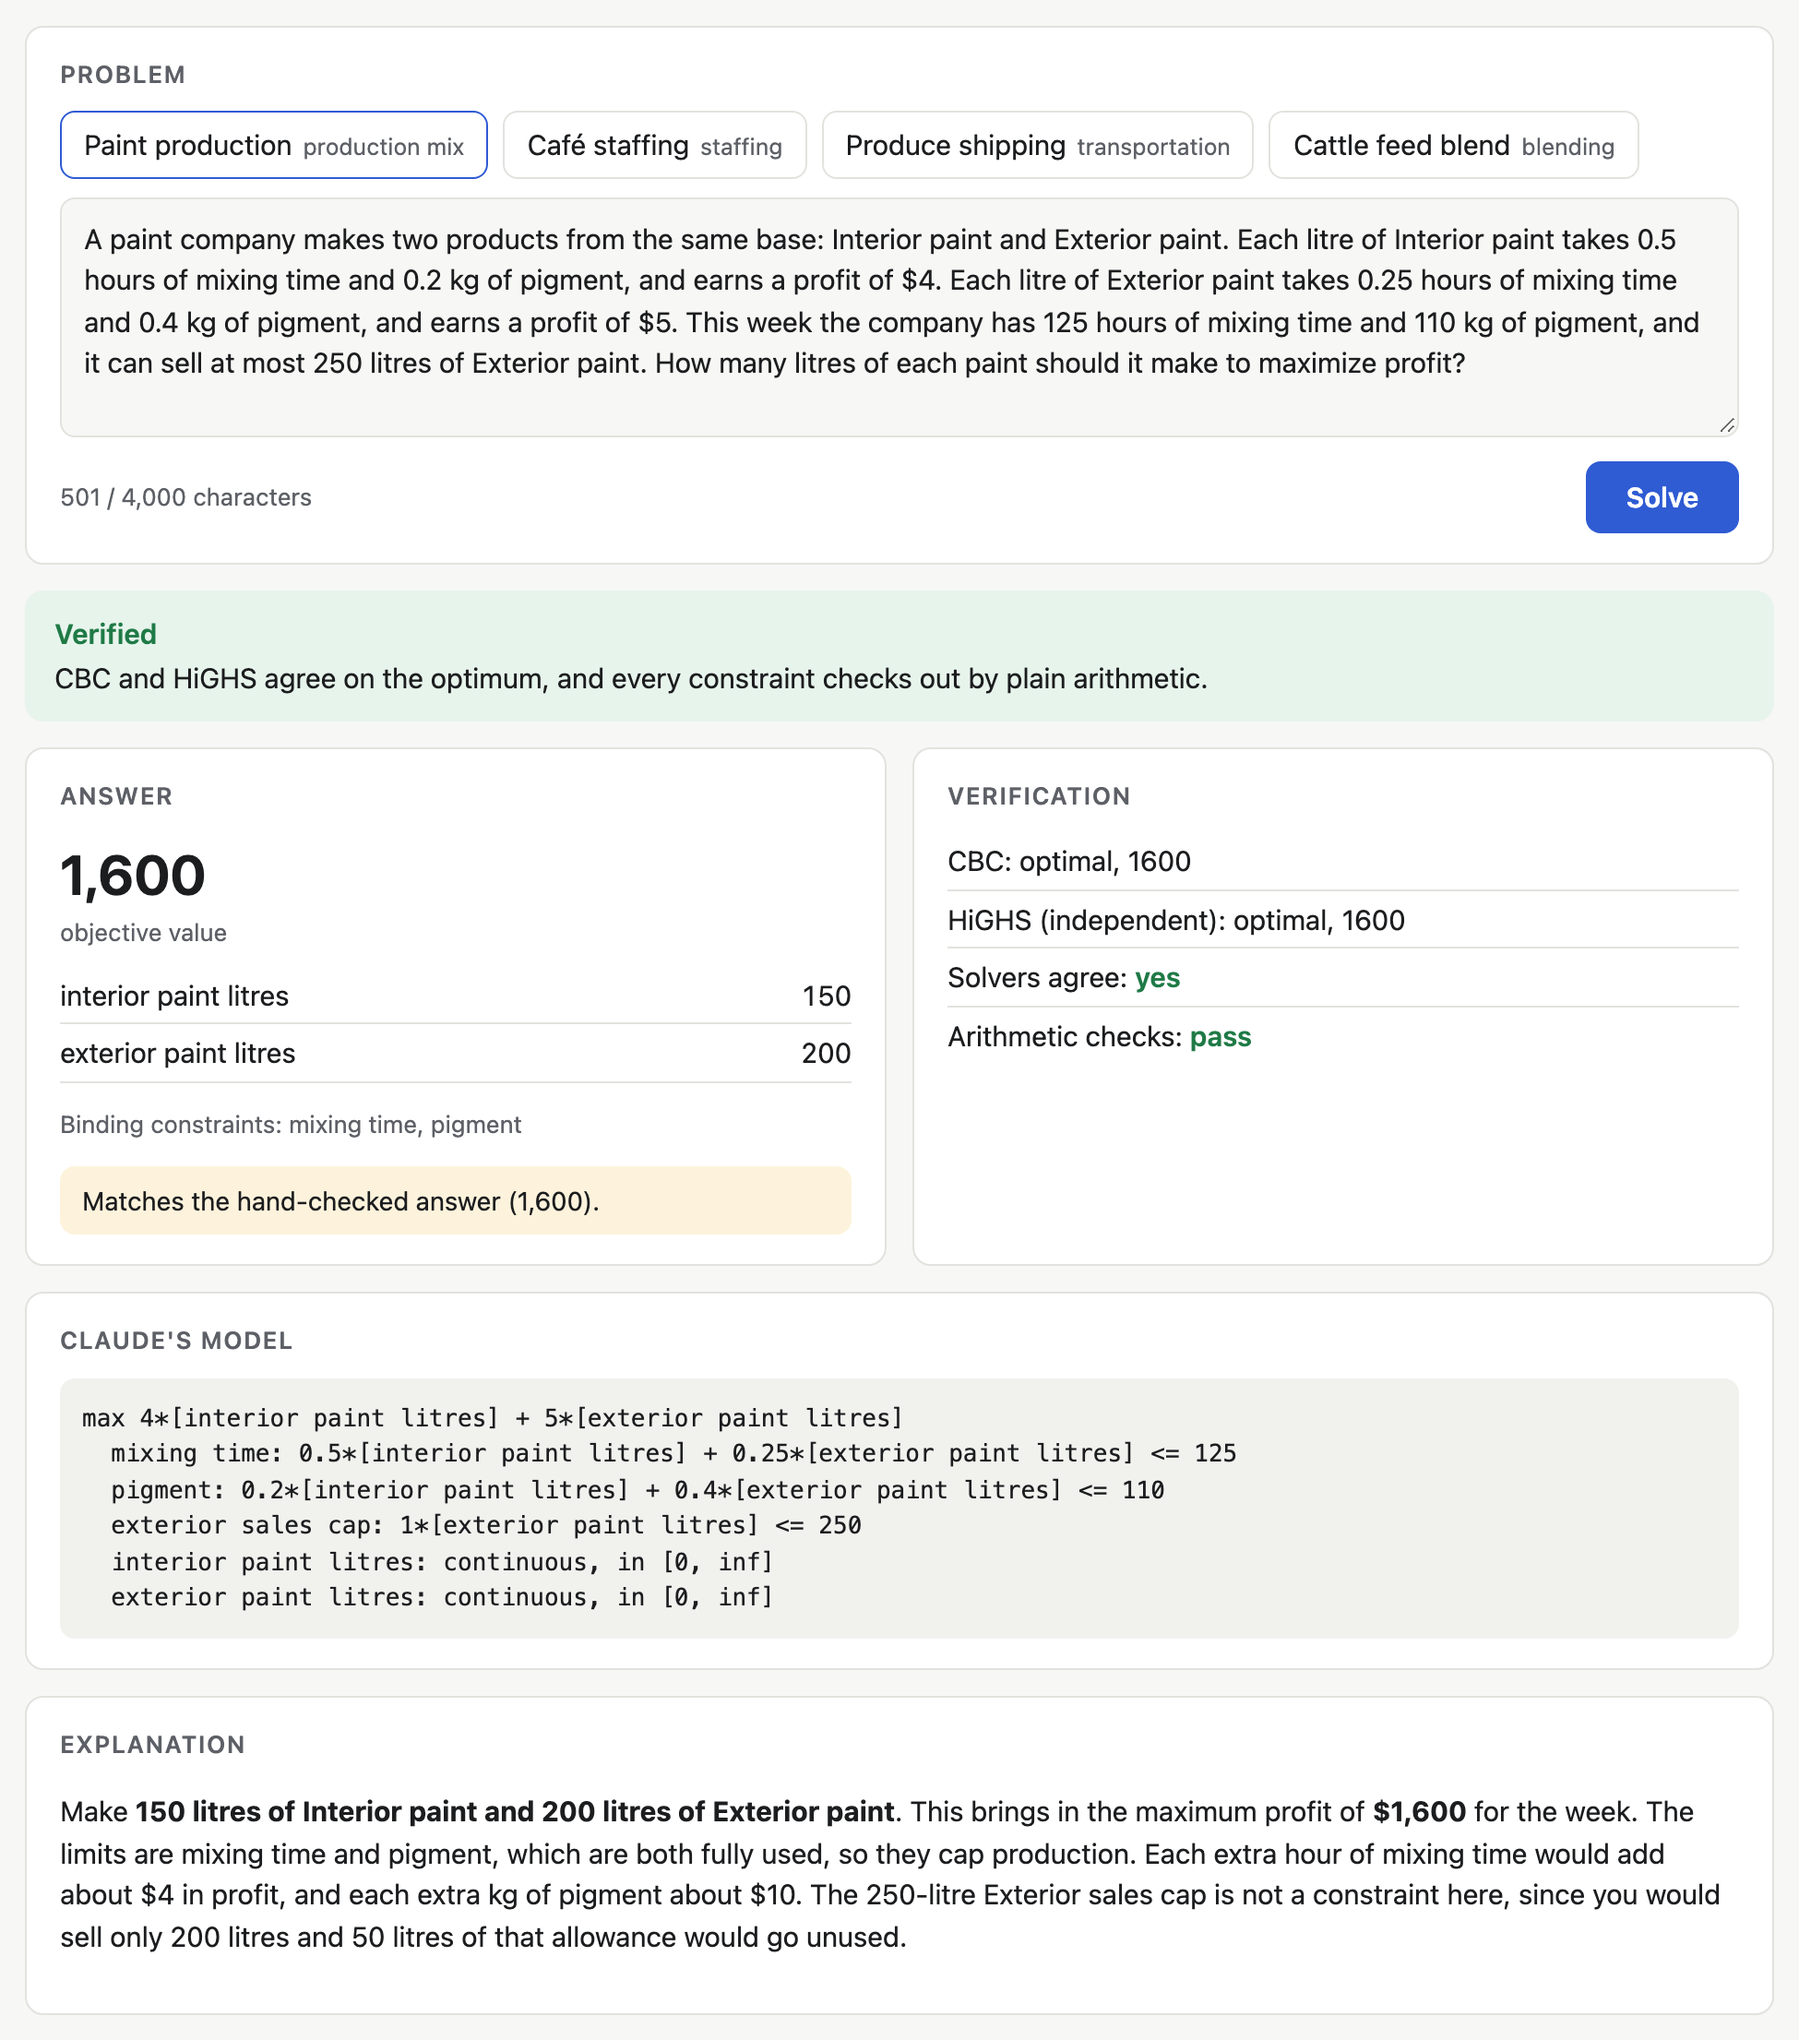
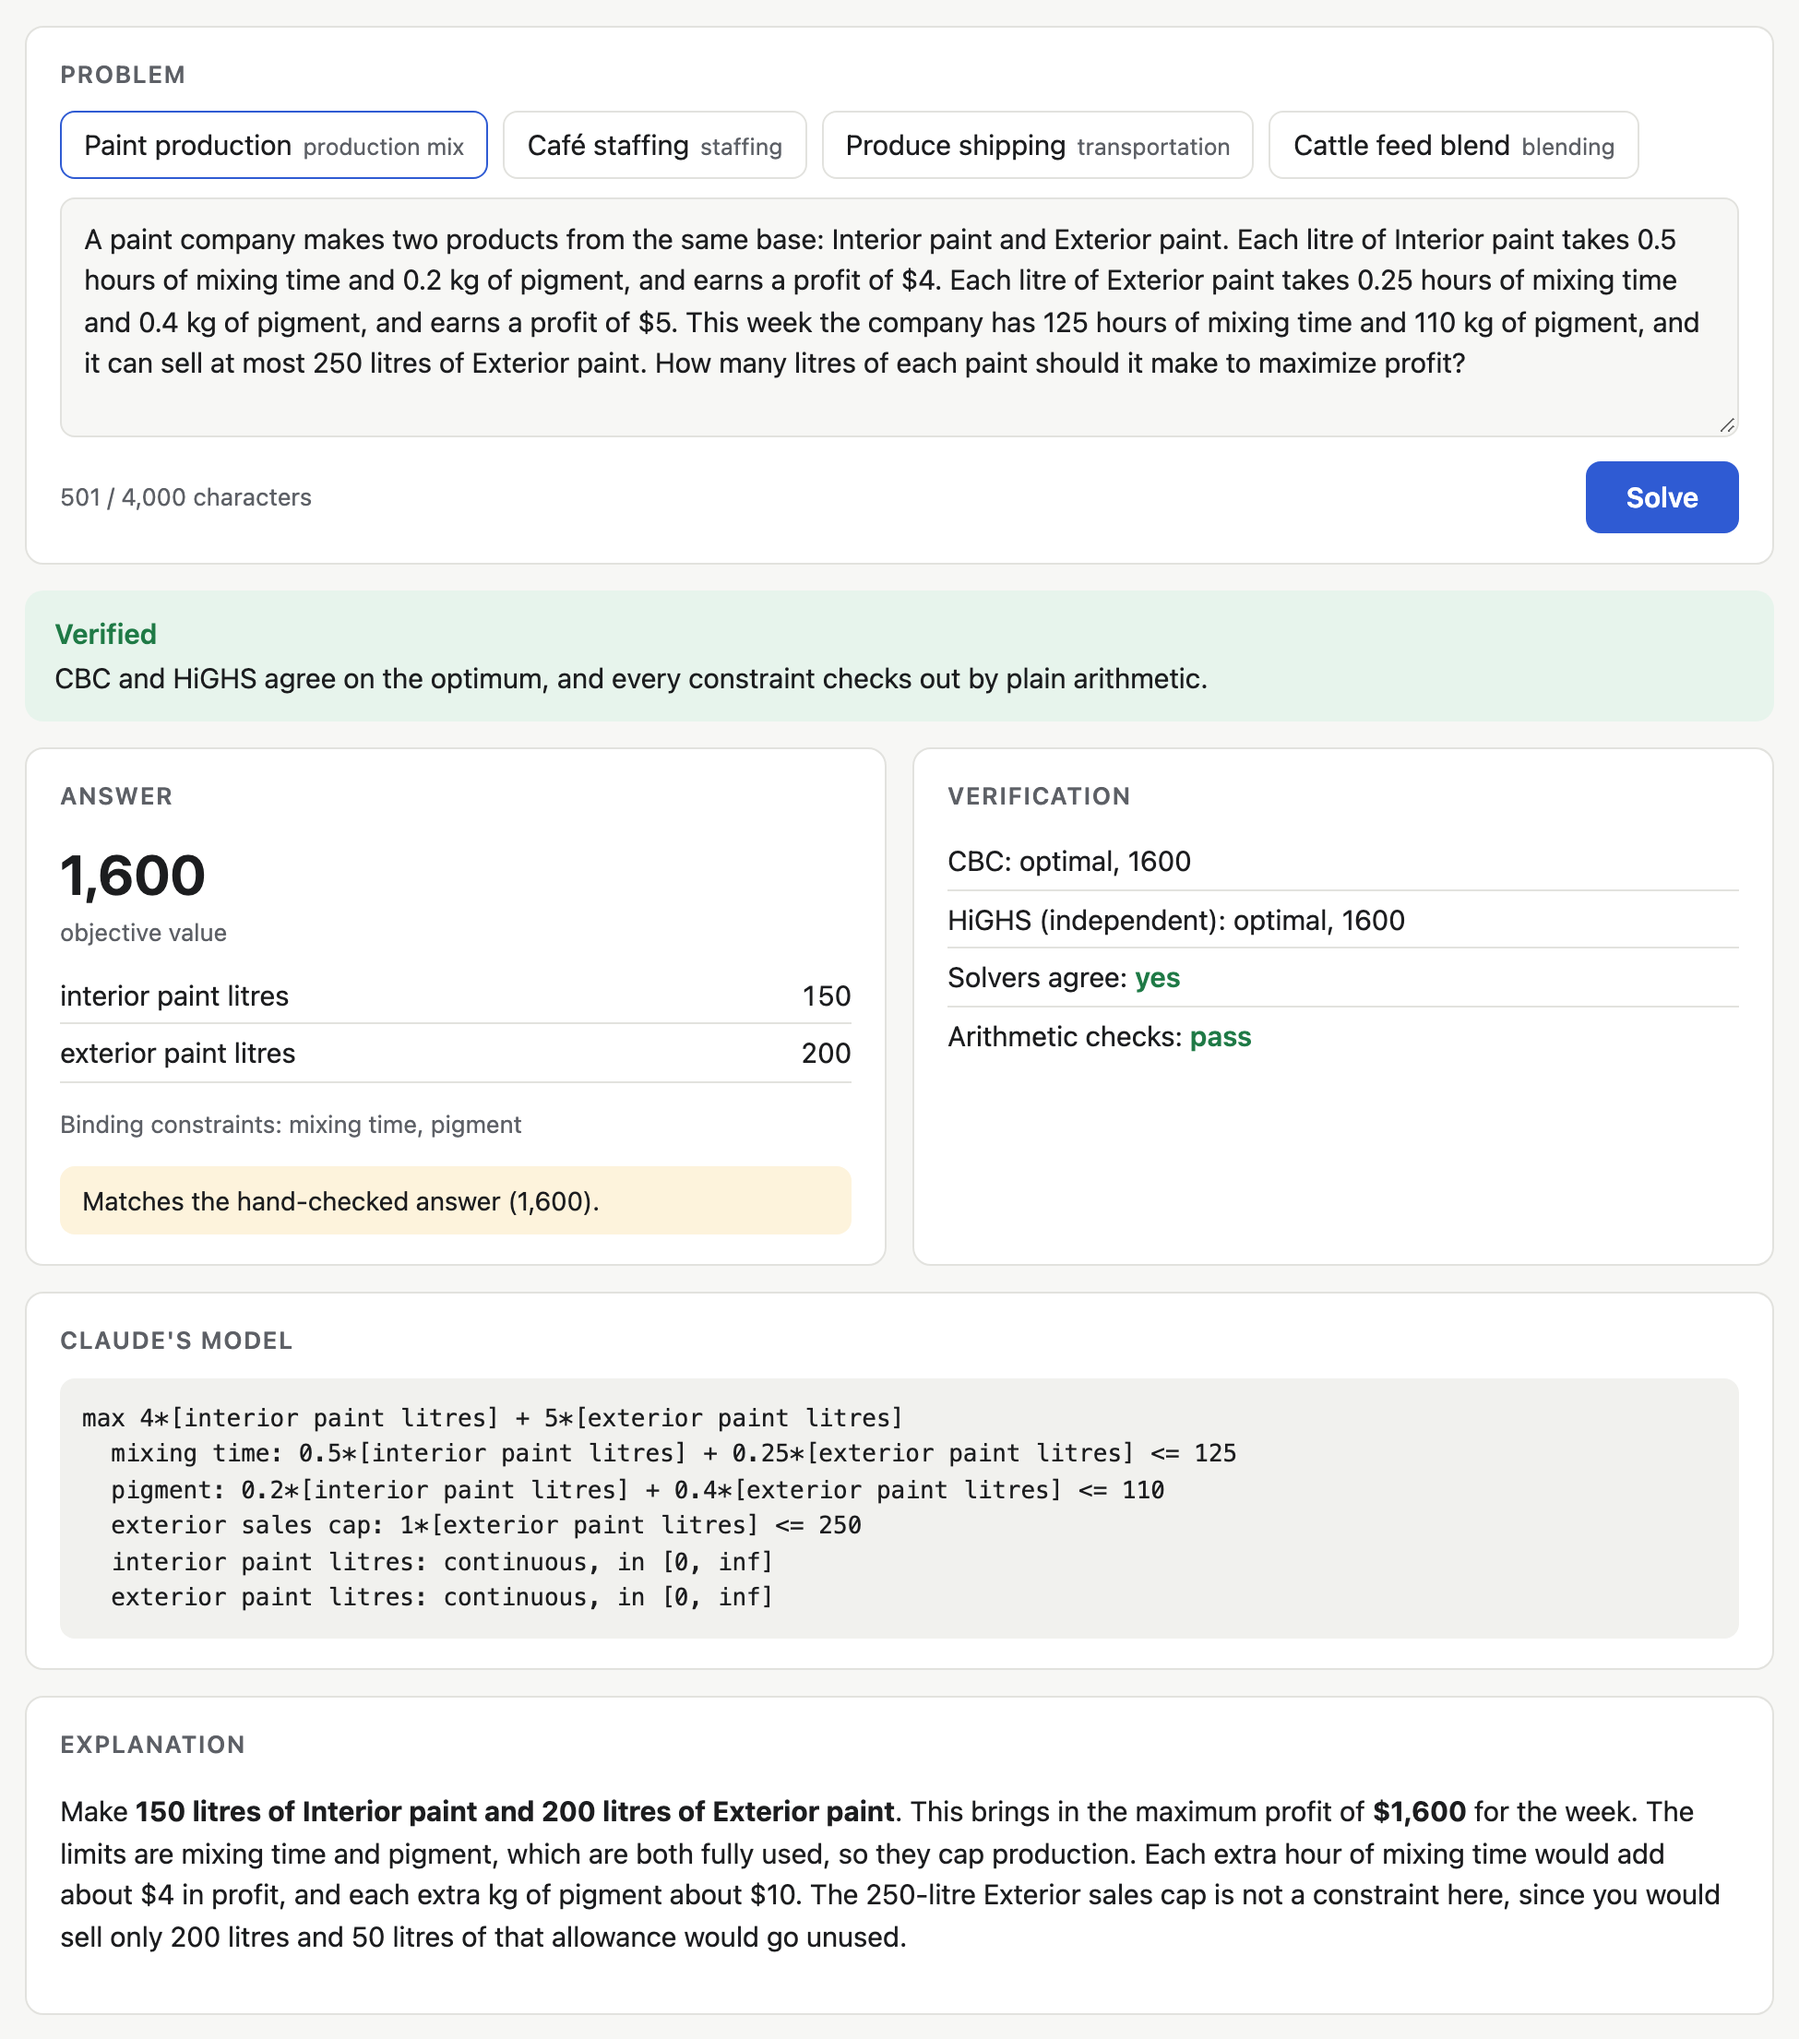
README screenshot: the script's own capture (owner's rerun), byte-stable
The rerun is pixel for pixel the hand crop minus its last row of plain background: the
explanation card's box ends a fraction of a pixel short of where it paints, so the frame's
bottom rounds one device pixel higher (1950x2210, bottom margin 26). Pillow's encoder is
deterministic, so a rerun on the same rendering leaves the file as committed; the tests now
pin this capture's size and margins, and its byte stability.

diff --git a/tests/test_screenshot.py b/tests/test_screenshot.py
@@ -15,8 +15,8 @@ spec = importlib.util.spec_from_file_location("screenshot", ROOT / "scripts" / "
 screenshot = importlib.util.module_from_spec(spec)
 spec.loader.exec_module(screenshot)
 
-# The two cards' boxes (CSS pixels) in the owner's capture that docs/demo.png comes from:
-# the problem card's top at 192, the explanation card's bottom at 1270, the column 948 wide.
+# The two cards (CSS pixels) as they paint on the owner's Mac, where docs/demo.png comes
+# from: the problem card from 192, the explanation card to 1270, the column 948 wide.
 PROBLEM = {"x": 76, "y": 192, "width": 948, "height": 292}
 EXPLANATION = {"x": 76, "y": 1097, "width": 948, "height": 173}
 BADGE = {"x": 76, "y": 154, "width": 312, "height": 24}  # ends where the card's margin starts
@@ -27,12 +27,17 @@ def png_size(path: Path) -> tuple[int, int]:
     return struct.unpack(">II", path.read_bytes()[16:24])  # the IHDR chunk's width, height
 
 
-def test_the_frame_is_the_committed_pictures():
-    clip = screenshot.frame(PROBLEM, EXPLANATION, BADGE, FLAGS)
-    assert clip == {"x": 62.5, "y": 178.0, "width": 975.0, "height": 1105.5}
-    assert clip == screenshot.frame(PROBLEM, EXPLANATION)  # the neighbors don't move it here
+@pytest.mark.parametrize("box_bottom", [1269.5, 1269.99])
+def test_the_frame_is_the_committed_pictures(box_bottom):
+    """docs/demo.png is the script's own capture (the owner's rerun on the Mac): 2210 device
+    pixels high, so the explanation card's box ends a fraction of a pixel short of where it
+    paints, somewhere in [1269.5, 1270), and the frame rounds its bottom down to 1283."""
+    explanation = EXPLANATION | {"height": box_bottom - EXPLANATION["y"]}
+    clip = screenshot.frame(PROBLEM, explanation, BADGE, FLAGS)
+    assert clip == {"x": 62.5, "y": 178.0, "width": 975.0, "height": 1105.0}
+    assert clip == screenshot.frame(PROBLEM, explanation)  # the neighbors don't move it here
     size = (clip["width"] * screenshot.SCALE, clip["height"] * screenshot.SCALE)
-    assert size == png_size(PICTURE) == (1950, 2211)
+    assert size == png_size(PICTURE) == (1950, 2210)
 
 
 def test_the_frame_lands_on_whole_device_pixels_inside_the_gaps():
@@ -71,8 +76,20 @@ def test_on_half_pixels_a_neighbor_counts_to_its_whole_pixel():
 
 def test_the_committed_picture_has_the_frames_margins():
     pytest.importorskip("PIL")
-    assert screenshot.margins(PICTURE) == screenshot.expected_margins() == (28, 27, 27, 27)
+    assert screenshot.expected_margins() == (28, 27, 27, 27)
+    assert screenshot.margins(PICTURE) == (28, 27, 26, 27)  # the bottom: see above
     screenshot.main(["--check", str(PICTURE)])  # passes
+
+
+def test_the_picture_is_byte_stable():
+    """capture() saves through Pillow (optimize=True): the same pixels give the same bytes,
+    so a rerun on the same rendering leaves docs/demo.png as committed."""
+    image = pytest.importorskip("PIL.Image")
+    import io
+
+    again = io.BytesIO()
+    image.open(PICTURE).convert("RGB").save(again, format="PNG", optimize=True)
+    assert again.getvalue() == PICTURE.read_bytes()
 
 
 def test_a_picture_framed_otherwise_fails_the_check(tmp_path):

diff --git a/docs/HANDOFF.md b/docs/HANDOFF.md
@@ -55,27 +55,30 @@ Read CLAUDE.md first (rules, budget, gotchas). This file is where things stand.
    owner's), and the audit's docs fixes (`docs/audit/2026-11-review.md`, section 5). The
    agent CLI still needs a key even when every call is cached; the demo's examples mode and
    `scripts/reproduce.py` don't.
-2a. **The README's screenshot** is the owner's headless capture (2026-11-15, 2x PNG), cropped
-   once by hand without scaling to the problem card through the explanation card. Since
-   then `scripts/screenshot.py` captures exactly that frame itself (`frame()`: the two cards'
+2a. **The README's screenshot** is `scripts/screenshot.py`'s own output, from the owner's
+   rerun on the Mac (2026-11-15, 2x PNG, 1950x2210): pixel for pixel the earlier hand crop
+   minus its last row of plain background (the explanation card's box ends a fraction of a
+   pixel short of where it paints, so the frame's bottom rounds one device pixel higher; the
+   bottom margin is 26 device pixels, not 27). Pillow's encoder is deterministic, so a rerun
+   on the same rendering leaves the file byte for byte as committed
+   (`test_the_picture_is_byte_stable`). Before that it was the owner's capture cropped once
+   by hand; `scripts/screenshot.py` captures exactly that frame itself (`frame()`: the two cards'
    boxes plus 14 px of page background above and 13.5 px on the other sides, 28 and 27
    device pixels; a clip screenshot in a viewport tall enough to hold it, not the full page),
-   and saves through Pillow as the committed file was, so a rerun on the owner's Mac should
-   reproduce `docs/demo.png` as it is. Checked without a browser (the sandbox can't start
-   one): `tests/test_screenshot.py` shows the frame of the cards' boxes in the owner's
-   capture is the committed picture's size, 1950x2211, and its margins are (28, 27, 27, 27).
+   and saves through Pillow, so a rerun on the owner's Mac reproduces `docs/demo.png`. `tests/test_screenshot.py` checks the frame against
+   the committed picture's size and margins, (28, 27, 26, 27), without a browser.
    CI's `pictures` job captures the same frame with Linux fonts (other card heights) and
    checks its margins with `python scripts/screenshot.py --check` (artifact
-   `demo-screenshot`). The committed picture wasn't replaced: no new capture was made here.
+   `demo-screenshot`).
    **What CI taught the frame:** with Linux fonts the layout lands on half pixels (the
    script prints it: badge 152.5 to 176.5, problem card from 190.5, explanation to 1314.5,
    flags card from 1328.5), and Chromium paints such a box out to the next whole pixel. The
    top margin is the whole 14 px gap to the badge, so the first Linux captures took in the
    badge's painted edge (top margin 0, bottom 25). Now `frame()` stops at the next whole
    pixel beyond each neighbor (the badge above, the flags card below) and rounds its edges
-   inward, and `--check` allows one CSS pixel (two device pixels). None of that moves the
-   frame on the Mac, where every edge is a whole pixel; CI's layout is a test case in
-   `tests/test_screenshot.py`, and its capture now passes the check.
+   inward, and `--check` allows one CSS pixel (two device pixels). The neighbor rule doesn't
+   move the frame on the Mac; CI's layout is a test case in `tests/test_screenshot.py`, and
+   its capture passes the check.
 3. ~~A CI check of the `followup-freeze` tag~~: done 2026-11-15 (`followup_freeze.tag_problems`,
    see "Decisions made without the owner" below).
 4. **`amendment-5.md`'s status line** still says "DRAFT ... not tagged", though it is tagged
